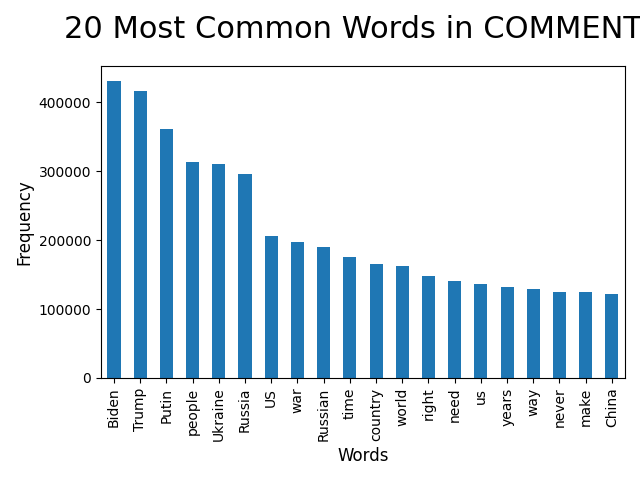
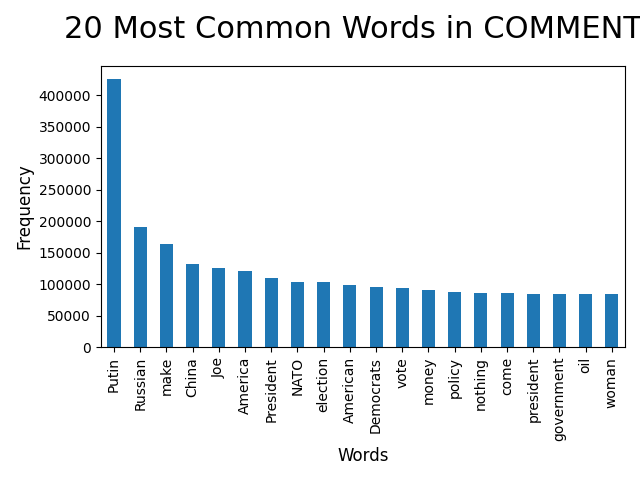
Updated vertical analysis with better stop words.

diff --git a/vertical/vertical_analysis.py b/vertical/vertical_analysis.py
@@ -3,14 +3,43 @@ from collections import Counter
 import pandas as pd
 from matplotlib import pyplot as plt
 from nltk.corpus import stopwords
+from nltk import WordNetLemmatizer, word_tokenize
 import string
 import os
-
 from wordcloud import WordCloud
+import nltk
 
+# Download the necessary NLTK data files
+nltk.download('wordnet')
+nltk.download('stopwords')
+nltk.download('punkt')
+
+
+def load_additional_stop_words(file_path):
+    with open(file_path, 'r') as f:
+        stop_words = f.read().splitlines()
+    return stop_words
+
+
+# Load the stop words
+additional_stop_words = load_additional_stop_words('../additional_stop_words.txt')
 stop_words = set(stopwords.words('english'))
-additional_stop_words = ['would', 'could', 'get', 'like', '-', 'one', 'also', 'think', 'much', 'know', 'said', 'going', 'abc', 'want', 'back', 'dont', 'even', 'see', 'well', 'really', 'many']
 stop_words.update(additional_stop_words)
+
+
+# Preprocessing functions
+def preprocess_text(text):
+    words = word_tokenize(text)
+    words = [word for word in words if word.lower() not in stop_words and word.isalpha()]
+    return ' '.join(words)
+
+
+def lemmatize_text(text):
+    words = word_tokenize(text)
+    lemmatizer = WordNetLemmatizer()
+    words = [lemmatizer.lemmatize(word) for word in words]
+    return ' '.join(words)
+
 
 def load_and_process_data(paths):
     all_text_list = []
@@ -21,18 +50,22 @@ def load_and_process_data(paths):
             all_text_list.extend(df['content'].tolist())
         else:
             print(f"File not found: {path}")
-    return ' '.join(all_text_list)
+
+    processed_texts = []
+    for text in all_text_list:
+        if text.strip():  # Check if the text is not empty
+            preprocessed_text = preprocess_text(text)
+            lemmatized_text = lemmatize_text(preprocessed_text)
+            processed_texts.append(lemmatized_text)
+        else:
+            print(f"Skipping empty text in file")
+
+    return ' '.join(processed_texts)
+
 
 def most_common_words(all_text, name):
     print(f"Starting 20 most common words for {name}")
     all_text = all_text.translate(str.maketrans('', '', string.punctuation))
-
-    def preprocess_text(text):
-        words = text.split()
-        words = [word for word in words if word.lower() not in stop_words]
-        return ' '.join(words)
-
-    all_text = preprocess_text(all_text)
 
     words = all_text.split()
     word_freq = Counter(words)
@@ -48,29 +81,24 @@ def most_common_words(all_text, name):
     plt.close()
     print(f"Finished 20 most common words for {name}")
 
+
 def word_cloud(all_text, name):
     print(f"Starting word cloud for {name}")
     all_text = all_text.translate(str.maketrans('', '', string.punctuation))
 
-    def preprocess_text(text):
-        words = text.split()
-        words = [word for word in words if word.lower() not in stop_words]
-        return ' '.join(words)
+    wordcloud = WordCloud(width=800, height=800,
+                          background_color='white',
+                          stopwords=stop_words,
+                          min_font_size=10).generate(all_text)
 
-    all_text = preprocess_text(all_text)
-
-    wordcloud = WordCloud(width = 800, height = 800,
-                background_color ='white',
-                stopwords = stop_words,
-                min_font_size = 10).generate(all_text)
-
-    plt.figure(figsize = (8, 8), facecolor = None)
+    plt.figure(figsize=(8, 8), facecolor=None)
     plt.imshow(wordcloud)
     plt.axis("off")
     plt.tight_layout()
     plt.savefig(f'./{name}_word_cloud.png')
     plt.close()
     print(f"Finished word cloud for {name}")
+
 
 base_path = os.path.expanduser('~/MultiLayrtET2_Project/Data/2_proccessed_data_and_analysis/data/selected_data')
 outlets = ['ABC', 'FOX', 'HIL', 'HP', 'MW', 'NW', 'NYT', 'WSJ']
